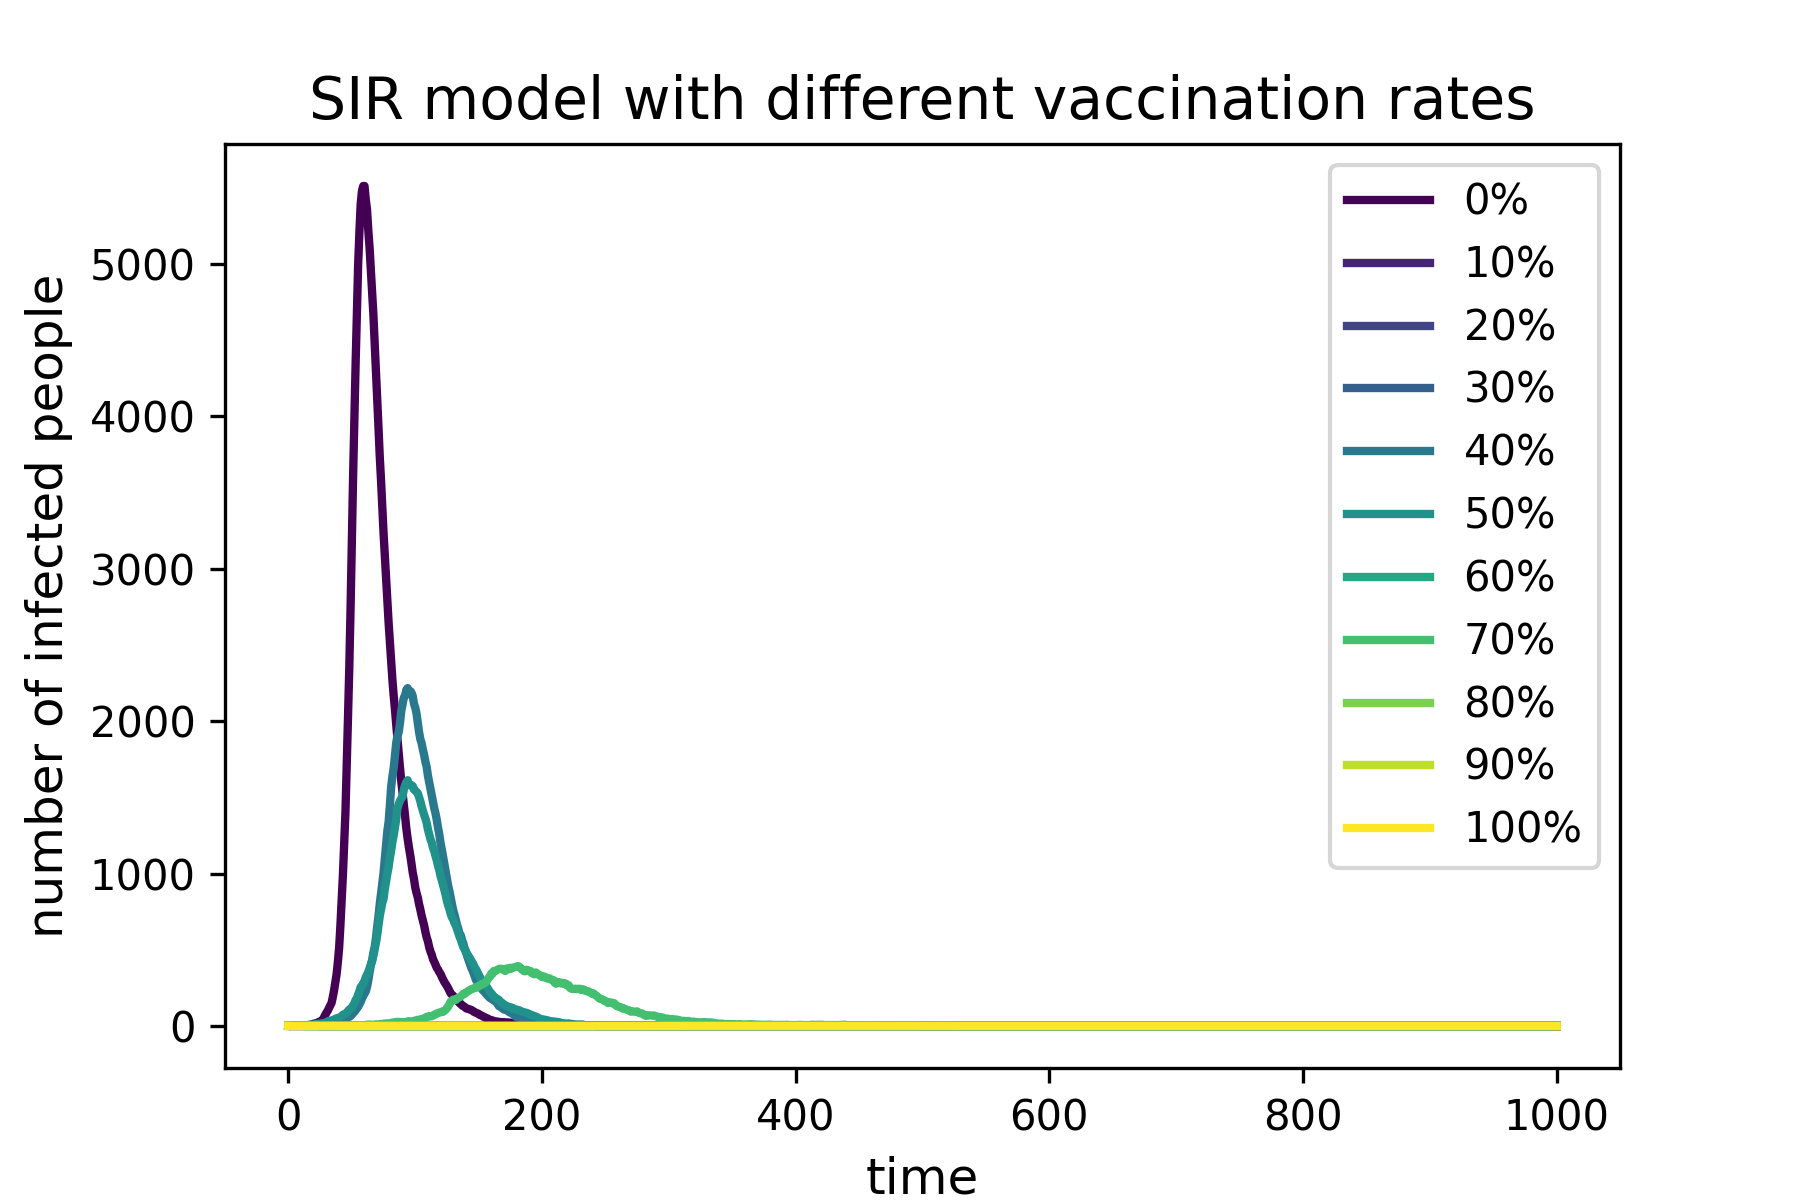
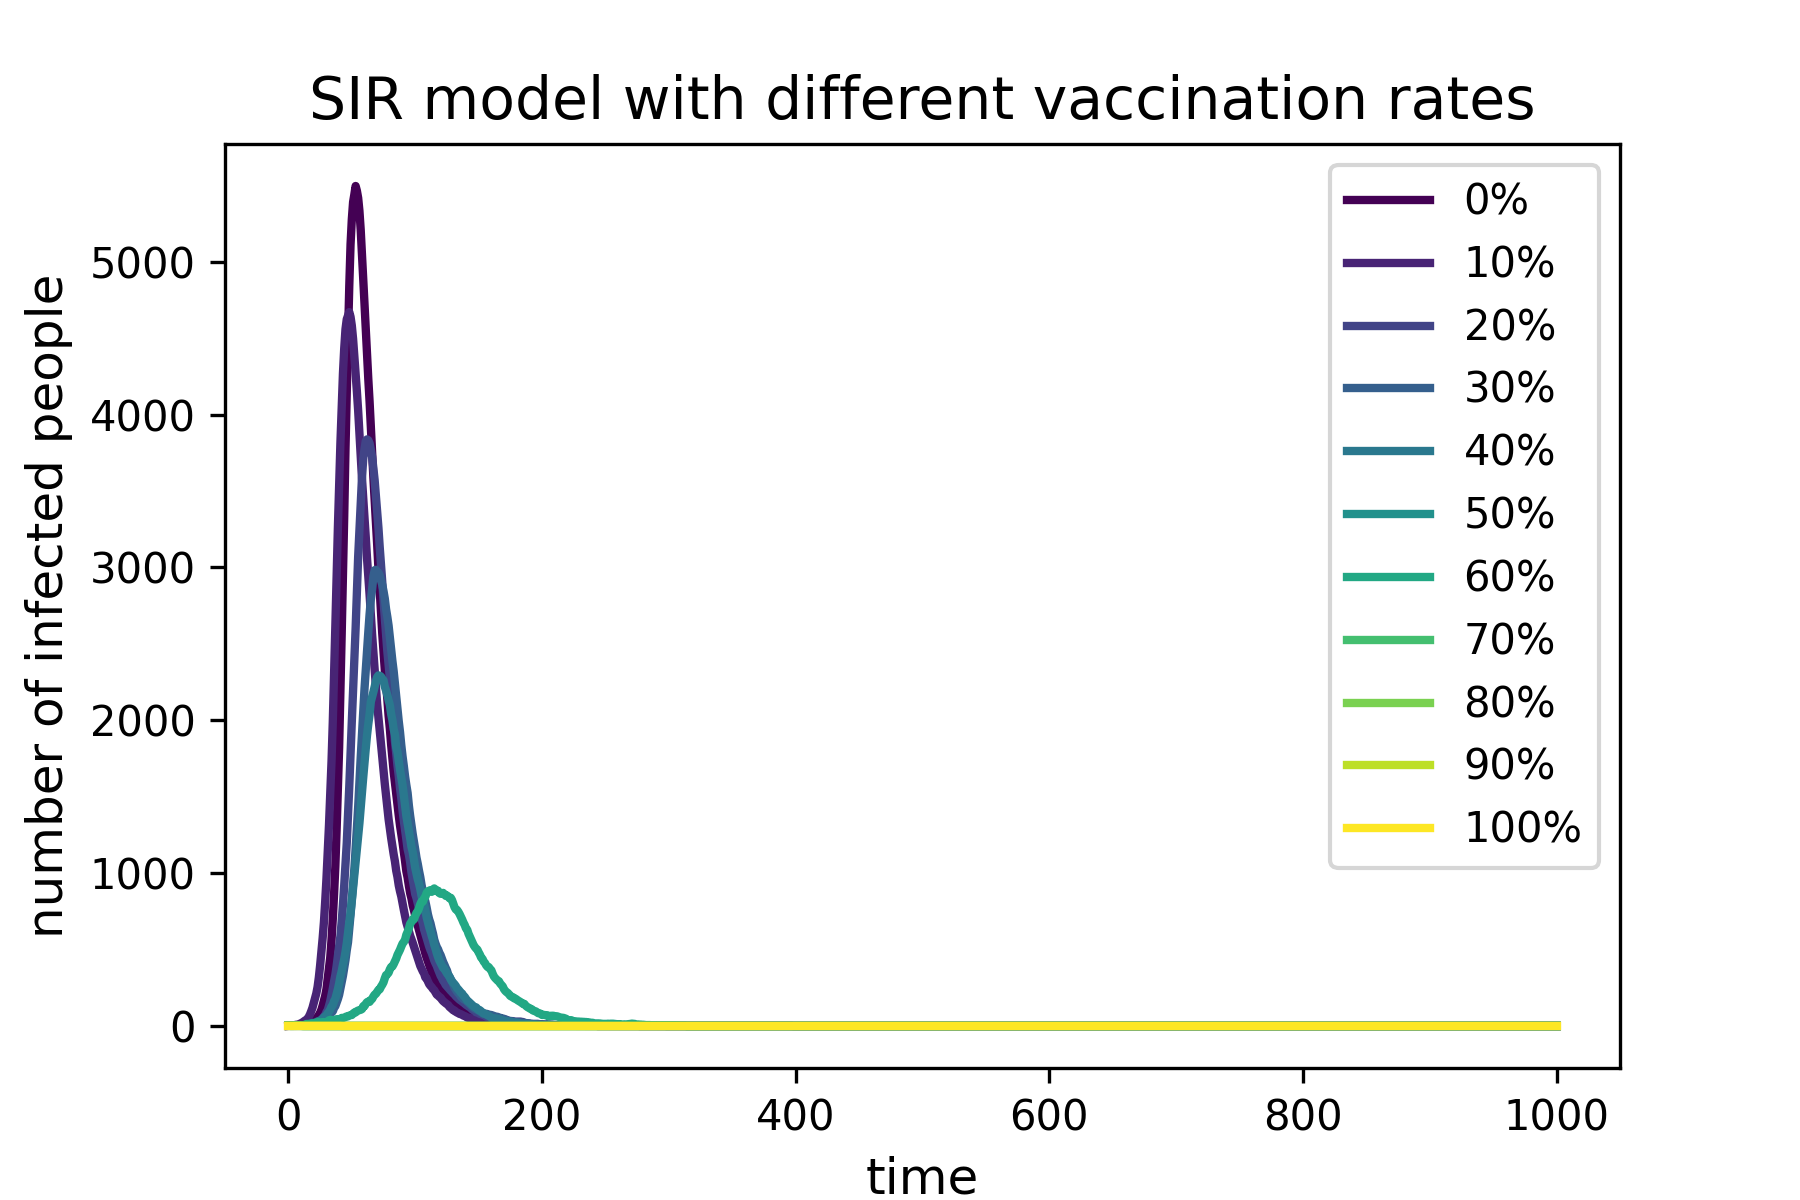
Changes to Annotations

diff --git a/Practical9/SIR_vaccination.py b/Practical9/SIR_vaccination.py
@@ -23,8 +23,13 @@ Simulation process for each vaccination rate:
 for vax_rate in vax_rates:
     # Initialize population with vaccination
     R = int(N * vax_rate)
-    I = 1
-    S = N - R - I
+    # Ensure that we do not set an initial infected person when population is full
+    if R < N:
+        I = 1          # one initial infected person if possible
+    else:
+        I = 0          # if everyone is vaccinated, no infection
+    S = N - R - I      # S will never be negative because R + I <= N
+    
     arr_I = [I]
     
     # Time loop for 1000 steps
